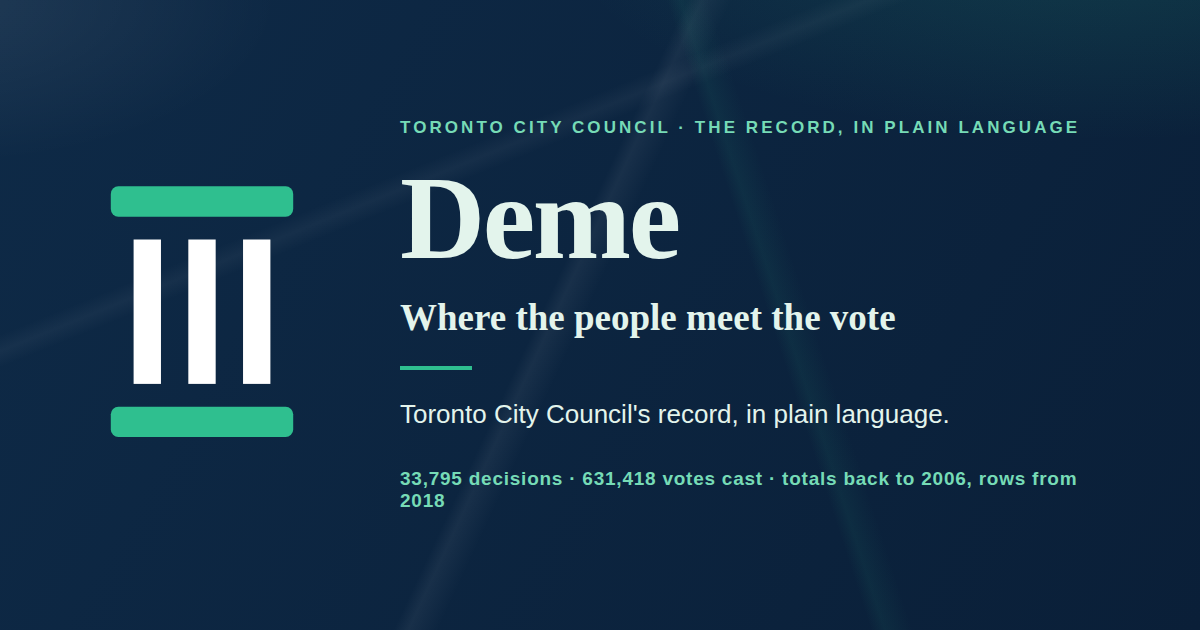
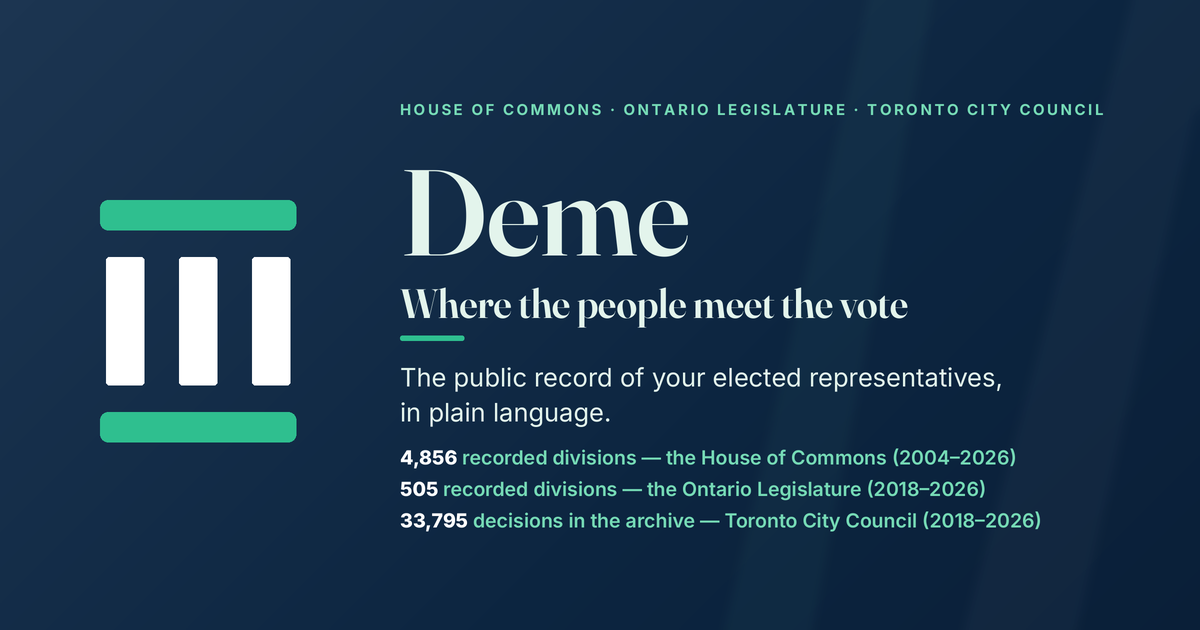
v71 — link-preview card: replace Toronto-only OG image with three-level card (same filename); sw VERSION bump to v71

diff --git a/sw.js b/sw.js
@@ -101,7 +101,7 @@
 // deploy, so assets are network-first too; cache is the offline fallback.
 // VERSION bumps rename every cache, and activate deletes the old ones —
 // bump VERSION whenever this file ships a strategy change.
-const VERSION = 'v70';
+const VERSION = 'v71';
 const SHELL = 'deme-shell-' + VERSION;
 const PAGES = 'deme-pages-' + VERSION;
 const DATA = 'deme-data-' + VERSION;
